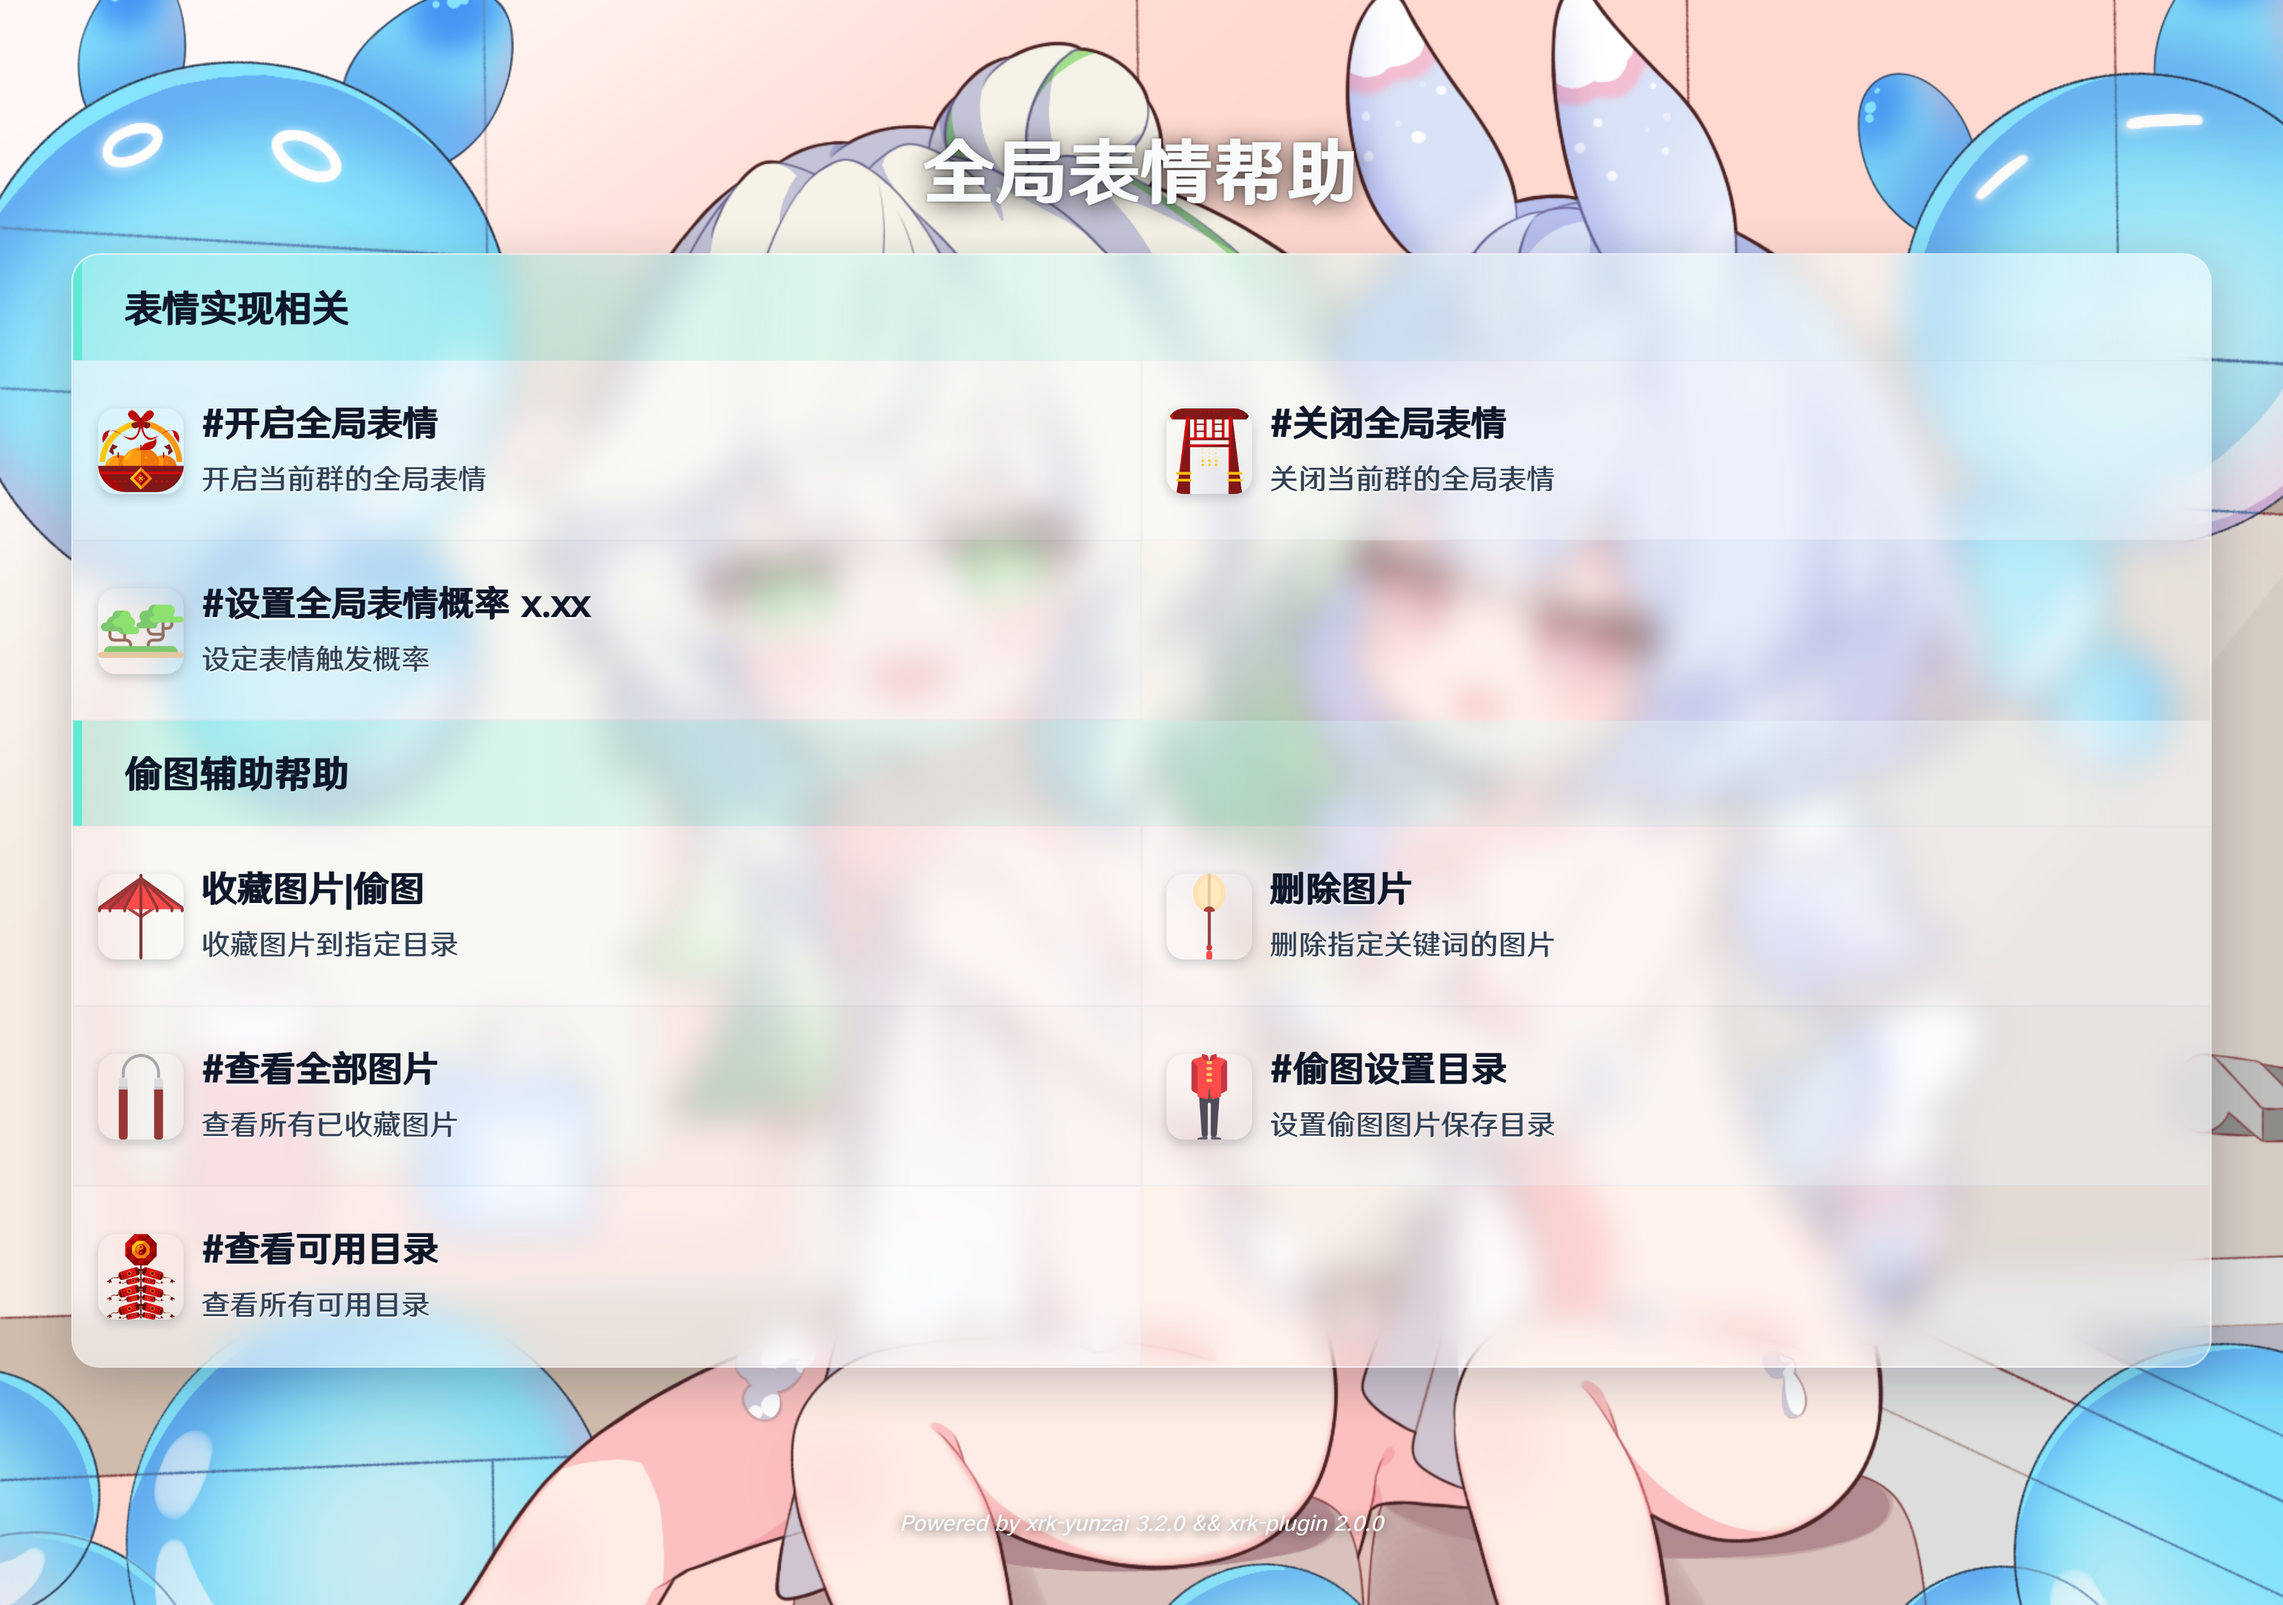
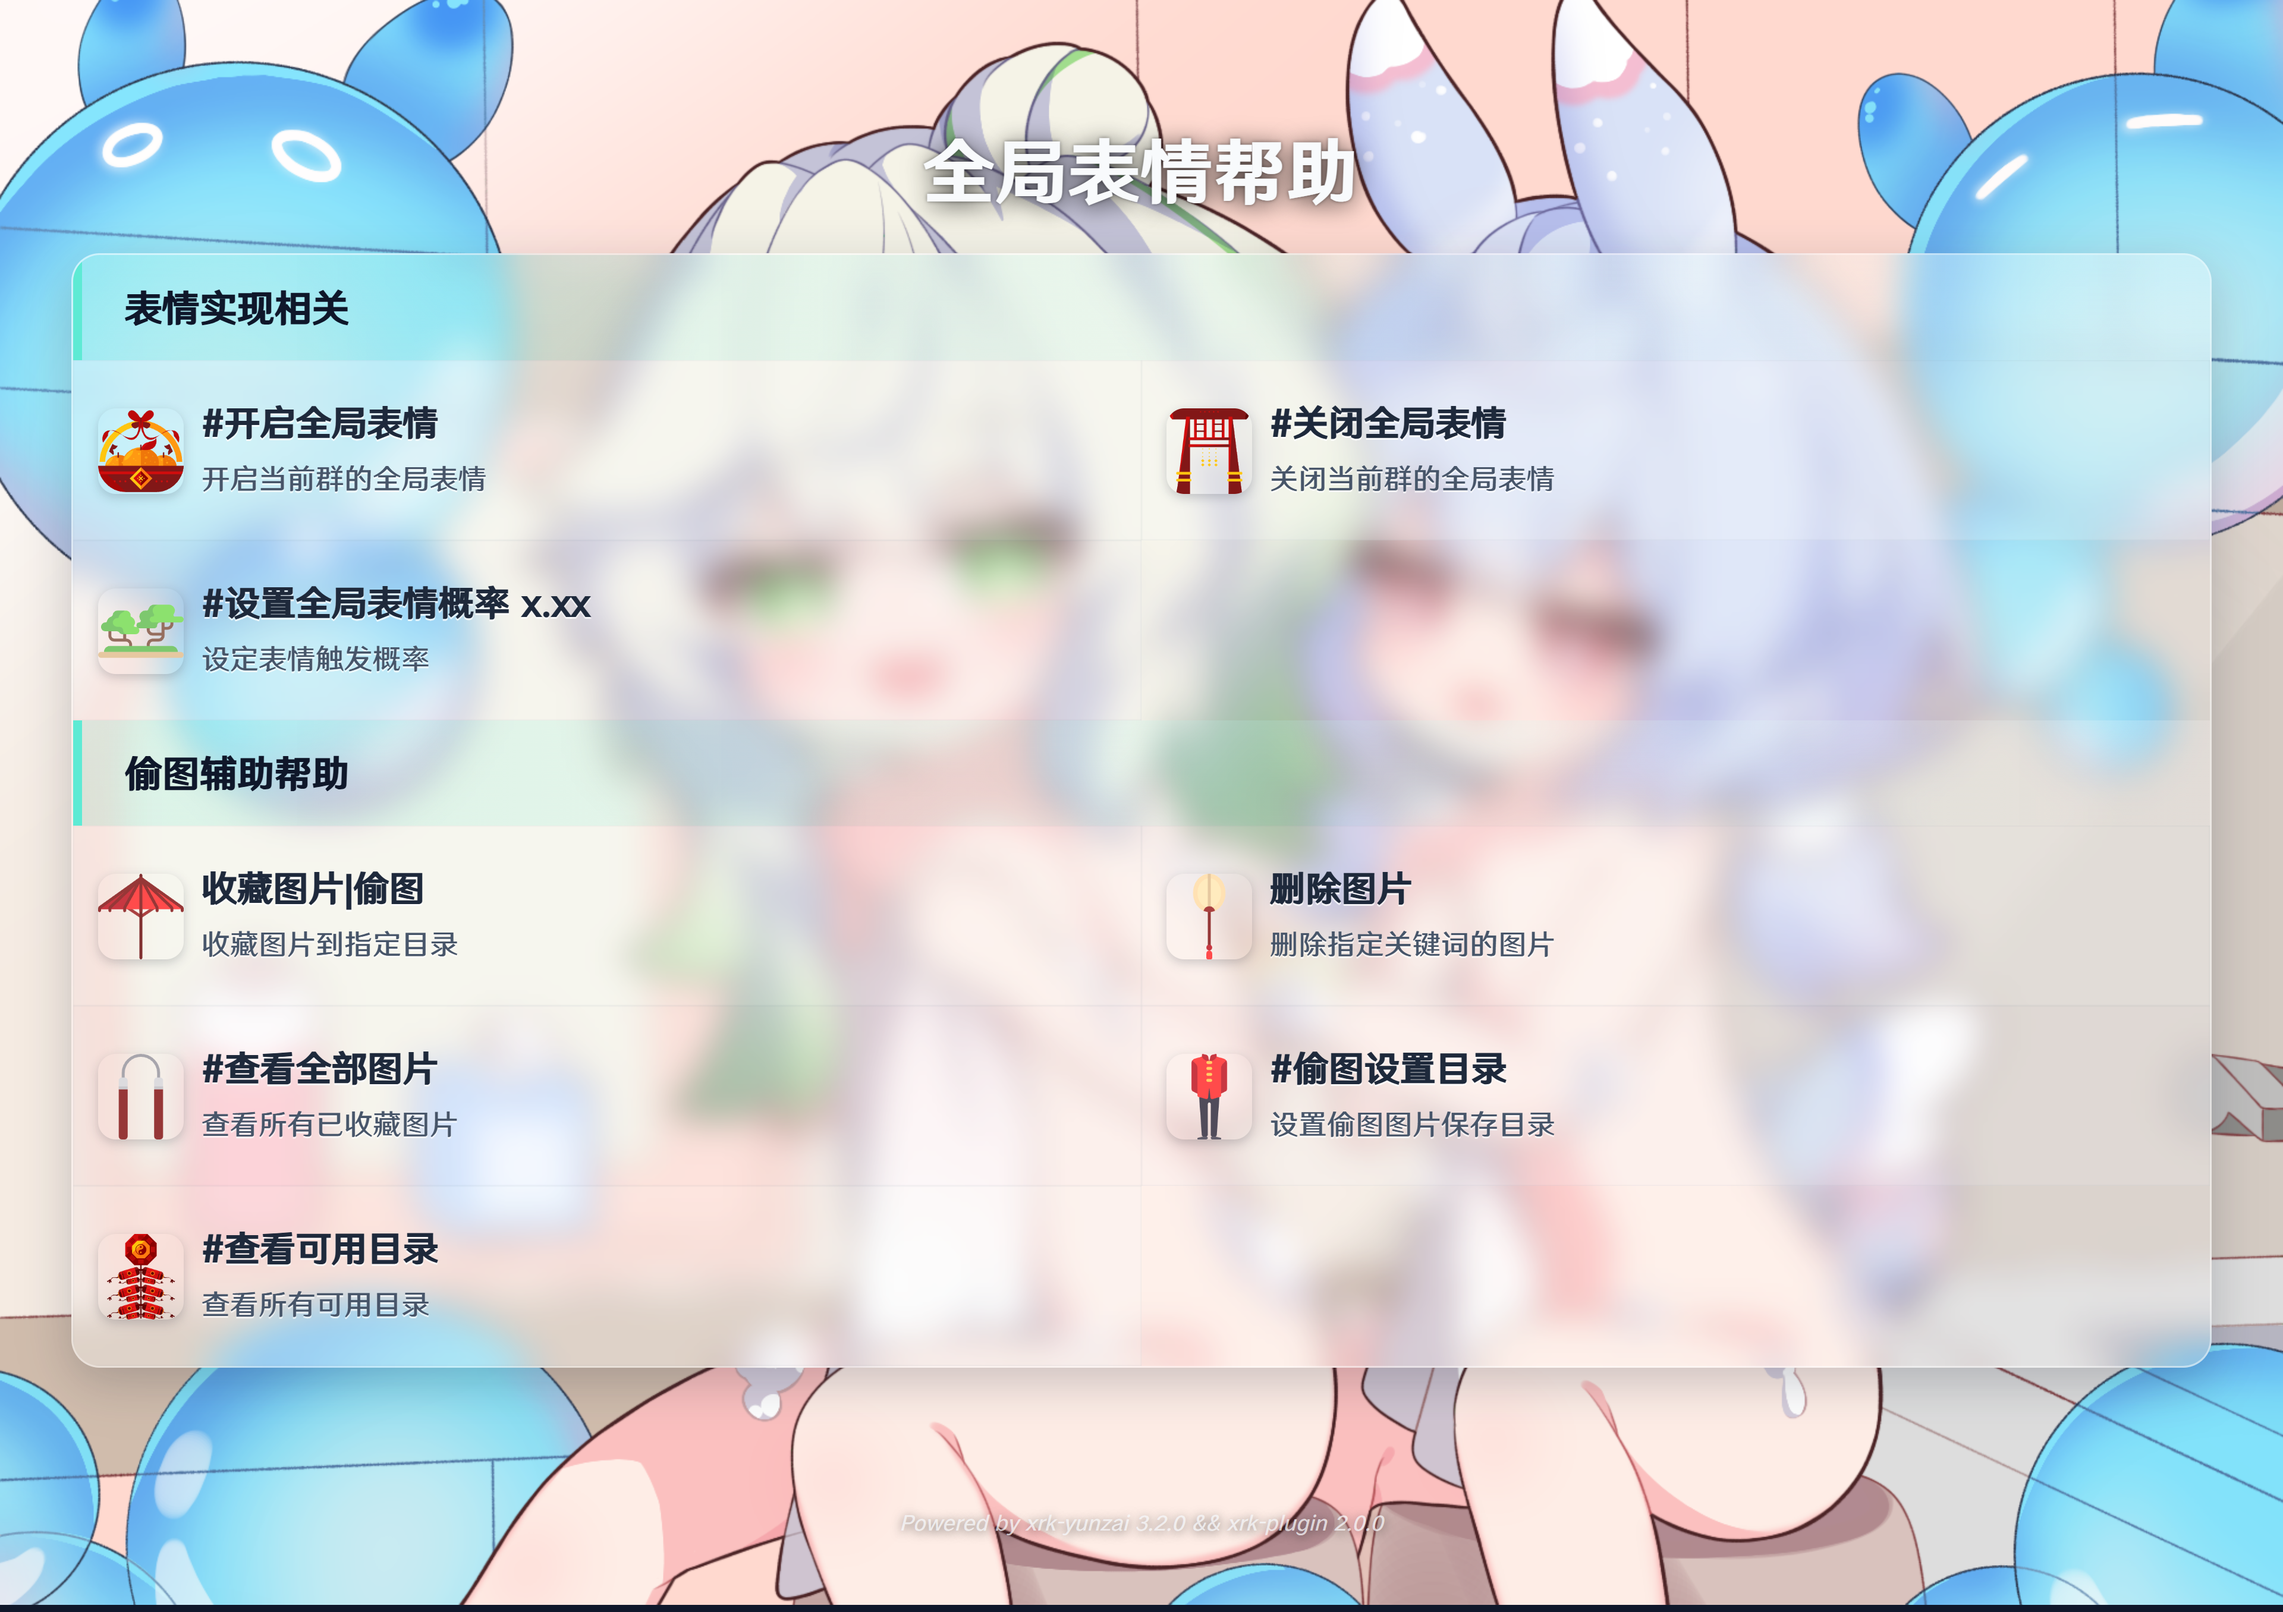
Update: 2026/07/28 12:19:31 [12 修改] +161 -87 行

diff --git a/lib/config-normalize.js b/lib/config-normalize.js
@@ -84,10 +84,10 @@ export const DEFAULT_HELP_CFG = {
     fontColor: '#0f172a',
     descColor: '#334155',
     footerColor: '#f8fafc',
-    contBgColor: 'rgba(255, 255, 255, 0.30)',
-    groupBgColor: 'linear-gradient(90deg, rgba(94, 234, 212, 0.28), rgba(255, 255, 255, 0.38))',
-    rowBgColor1: 'rgba(248, 250, 252, 0.40)',
-    rowBgColor2: 'rgba(241, 245, 249, 0.32)'
+    contBgColor: 'rgba(255, 255, 255, 0.16)',
+    groupBgColor: 'linear-gradient(90deg, rgba(94, 234, 212, 0.18), rgba(255, 255, 255, 0.20))',
+    rowBgColor1: 'rgba(248, 250, 252, 0.22)',
+    rowBgColor2: 'rgba(241, 245, 249, 0.16)'
   }
 };
 
@@ -118,7 +118,7 @@ function isUsablePanelAlpha(value) {
   const m = String(value || '').match(/rgba?\(\s*[\d.]+\s*,\s*[\d.]+\s*,\s*[\d.]+\s*,\s*([\d.]+)\s*\)/i);
   if (!m) return true;
   const a = Number(m[1]);
-  return a >= 0.22 && a <= 0.48;
+  return a >= 0.10 && a <= 0.35;
 }
 
 /** 旧版 help_system（深色半透明 + theme/colWidth） */

diff --git a/resources/help/help_template.css b/resources/help/help_template.css
@@ -68,8 +68,8 @@ html {
     overflow: hidden;
     box-shadow: 0 8px 28px rgba(15, 23, 42, 0.22);
     border: 1px solid rgba(255, 255, 255, 0.45);
-    background: rgba(255, 255, 255, 0.30);
-    backdrop-filter: blur(12px);
+    background: rgba(255, 255, 255, 0.16);
+    backdrop-filter: blur(14px);
 }
 
 .help-group {
@@ -78,7 +78,7 @@ html {
     padding: 18px 22px 16px 24px;
     color: #0f172a;
     border-left: 5px solid #5eead4;
-    background: linear-gradient(90deg, rgba(94, 234, 212, 0.28), rgba(255, 255, 255, 0.38));
+    background: linear-gradient(90deg, rgba(94, 234, 212, 0.18), rgba(255, 255, 255, 0.20));
 }
 
 .help-table {
@@ -93,11 +93,11 @@ html {
 }
 
 .help-table .tr:nth-child(odd) {
-    background: rgba(248, 250, 252, 0.40);
+    background: rgba(248, 250, 252, 0.22);
 }
 
 .help-table .tr:nth-child(even) {
-    background: rgba(241, 245, 249, 0.32);
+    background: rgba(241, 245, 249, 0.16);
 }
 
 .help-table .td {

diff --git a/lib/help-render.js b/lib/help-render.js
@@ -122,7 +122,7 @@ function pickPanelBg(value, fallback) {
   const m = s.match(/rgba?\(\s*[\d.]+\s*,\s*[\d.]+\s*,\s*[\d.]+\s*,\s*([\d.]+)\s*\)/i);
   if (m) {
     const a = Number(m[1]);
-    if (a < 0.22 || a > 0.48) return fallback;
+    if (a < 0.10 || a > 0.35) return fallback;
   }
   return value || fallback;
 }

diff --git a/README.md b/README.md
@@ -1,32 +1,102 @@
-# 向日葵插件 (XRK-plugin)
+# 向日葵插件 · XRK-plugin
 
-## 帮助图预览
+> 面向 [XRK-Yunzai](https://github.com/sunflowermm/XRK-Yunzai) 的多功能消息插件：帮助图、插件安装/管理、资源图、早报自渲、抖音热榜/推荐、整点报时等。
 
-主帮助与子帮助共用 `resources/help/help_template.*`：**双列**布局、汉仪文黑字体、半透明面板；**每个帮助页在 `sub-help-pages.js` → `HELP_BACKGROUNDS` 中指定独立背景**（预览与运行时一致）。
+![License](https://img.shields.io/badge/license-MIT-green)
+![Platform](https://img.shields.io/badge/platform-XRK--Yunzai-blue)
+![Version](https://img.shields.io/badge/version-2.0.0-informational)
 
-### 主帮助 `#向日葵帮助`
+## 预览
 
-![向日葵帮助预览](assets/help-preview.png)
+入库预览图在 `assets/`（随仓库发布）。一行两张：
 
-### 其它帮助（同一套模板与样式）
+<p align="center">
+  <img src="assets/help-preview.png" width="48%" alt="#向日葵帮助" />
+  <img src="assets/help-plugins.png" width="48%" alt="#插件相关帮助" />
+</p>
+<p align="center"><sub>左：主帮助　右：插件管理帮助（查/装/停用等）</sub></p>
 
-| 指令 | 预览 |
-|------|------|
-| `#全局表情帮助` | ![全局表情](assets/help-emoji.png) |
-| `#刷步数帮助` | ![刷步数](assets/help-feet.png) |
-| `#插件相关帮助` | ![插件管理](assets/help-plugins.png) |
-| `#主人相关帮助` | ![主人](assets/help-master.png) |
-| `#早报推送帮助` | ![早报帮助](assets/help-news.png) |
-| `#整点报时帮助` | ![报时帮助](assets/help-time.png) |
+<p align="center">
+  <img src="assets/help-emoji.png" width="48%" alt="全局表情帮助" />
+  <img src="assets/help-feet.png" width="48%" alt="刷步数帮助" />
+</p>
+<p align="center"><sub>左：全局表情　右：刷步数</sub></p>
 
-### 早报 `#早报` / `#今日早报`
+<p align="center">
+  <img src="assets/help-news.png" width="48%" alt="早报推送帮助" />
+  <img src="assets/help-time.png" width="48%" alt="整点报时帮助" />
+</p>
+<p align="center"><sub>左：早报推送帮助　右：整点报时</sub></p>
 
-![早报示例](assets/morning-news.png)
+<p align="center">
+  <img src="assets/help-master.png" width="48%" alt="主人相关帮助" />
+  <img src="assets/morning-news.png" width="48%" alt="早报示例图" />
+</p>
+<p align="center"><sub>左：主人管理　右：早报自渲示例</sub></p>
 
-重新生成预览图：
+> `#安装插件列表` 运行时生成的分类截图在 `resources/plugins/*_group_*.png`，体积大且随列表变化，**已 gitignore，不入库**；插件管理说明见上方 `help-plugins.png`。
+
+## 功能
+
+- 帮助卡：主帮助 + 各子帮助页（表情 / 步数 / 早报 / 报时 / 插件 / 主人）
+- 插件：查 / 装 / 删 / 启停；分类列表截图
+- 资源图：随机图与关键词图（如东方、cos、黑丝等）
+- 早报：拉取 JSON → 本地 HTML 截图；可定时推送白名单
+- 抖音：热榜 / 推荐流 / 热词视频（复用 R Cookie；**链接解析请用 R**）
+- 其它：全局表情、偷图、刷步数、整点报时、天气、群文件等
+
+## 环境要求
+
+- [XRK-Yunzai](https://github.com/sunflowermm/XRK-Yunzai)（Node.js 24+）
+- 可选：已安装 [rconsole-plugin](https://gitee.com/kyrzy0416/rconsole-plugin) 并配置 `douyinCookie`（抖音热榜/推荐需要）
+
+## 安装
+
+将本仓库放到 Yunzai 的 `plugins/XRK-plugin/`，在框架根目录安装依赖后重启 Bot：
 
 ```bash
+# 若为独立 clone
+git clone <本仓库地址> plugins/XRK-plugin
+
+# 框架根目录按需补依赖（见启动日志提示）
+pnpm add axios uuid form-data node-schedule -w
+```
+
+## 常用指令
+
+| 类别 | 指令 |
+|------|------|
+| 帮助 | `#向日葵帮助` · `#插件相关帮助` · `#早报推送帮助` · `#全局表情帮助` … |
+| 插件 | `#查插件` · `#安装插件列表` · `#安装插件名` · `#停用插件` / `#启用插件` |
+| 随机图 | `#随机图片` · `#东方图` · `#cos图` · `#黑丝图` … |
+| 早报 | `#早报` · `#今日早报` · 白名单 / 推送时间相关指令 |
+| 抖音 | `#抖音热榜` · `#抖音推荐` · `#抖音热词视频` |
+
+完整条目以帮助图为准。
+
+## 配置
+
+| 路径 | 说明 | 是否入库 |
+|------|------|----------|
+| `config/default/*` | 默认模板（帮助列表、插件分类 JSON 等） | 是 |
+| `data/xrkconfig/`（或端口目录） | 运行时用户配置（首次从 default 复制） | 否（本机） |
+| `help_system.yaml` | 主帮助文案、`columnCount`、面板样式 | 模板在 default |
+| `assets/*.png` | README / 文档用预览图 | **是** |
+| `resources/help/` 模板与背景 | 帮助渲染资源 | 是（运行时生成的 html/css 除外） |
+| `resources/plugins/*_group_*.png` | `#安装插件列表` 截图缓存 | **否**（gitignore） |
+| R：`plugins/rconsole-plugin/config/tools.yaml` | `douyinCookie` | 属 R 仓库；勿把 Cookie 提交到公开仓 |
+
+帮助背景映射：`lib/sub-help-pages.js` → `HELP_BACKGROUNDS` + `resources/help/bgother/`。
+
+## 重新生成预览图
+
+在 **XRK-Yunzai 仓库根目录**执行：
+
+```bash
+# 全部帮助预览 → assets/help-*.png
 node plugins/XRK-plugin/scripts/render-help-preview.mjs
+
+# 早报示例 → assets/morning-news.png
 node plugins/XRK-plugin/scripts/render-morning-news-preview.mjs
 ```
 
@@ -34,23 +104,16 @@ node plugins/XRK-plugin/scripts/render-morning-news-preview.mjs
 
 ```
 XRK-plugin/
-├── assets/                   # README 预览图（已纳入版本库）
-├── lib/help-render.js        # 渲染 + captureHelpScreenshot
-├── lib/sub-help-pages.js     # 子帮助内容 + HELP_BACKGROUNDS
-├── lib/fetch-media.js        # 图片下载（资源库/早报）
-├── resources/help/           # 模板、字体、bgother 背景
-├── apps/help.js              # 主帮助
-└── apps/其他帮助.js           # 子帮助
+├── apps/                 # 指令入口
+├── lib/                  # 帮助渲染、插件列表、抖音、早报等
+├── resources/help/       # 帮助模板、字体、背景
+├── resources/plugins/    # 列表 HTML 模板；截图缓存不入库
+├── assets/               # 入库预览 PNG
+├── config/default/       # 默认配置模板
+├── scripts/              # 预览渲染脚本
+└── commonconfig/         # CommonConfig（若启用）
 ```
 
-## 配置
+## License
 
-- `help_system.yaml`：`columnCount: 2` 双列；`style.contBgColor` 等控制透明度
-- 帮助背景：`lib/sub-help-pages.js` 的 `HELP_BACKGROUNDS` + `resources/help/bgother/`
-
-## 使用
-
-- **主帮助**：`#向日葵帮助` / `#xrk帮助`
-- **子帮助**：见上表指令
-- **早报**：`#早报` / `#今日早报`
-- **配置**：`import hub from './lib/xrk-hub.js'`
+[MIT](LICENSE) © Sunflower Studio
